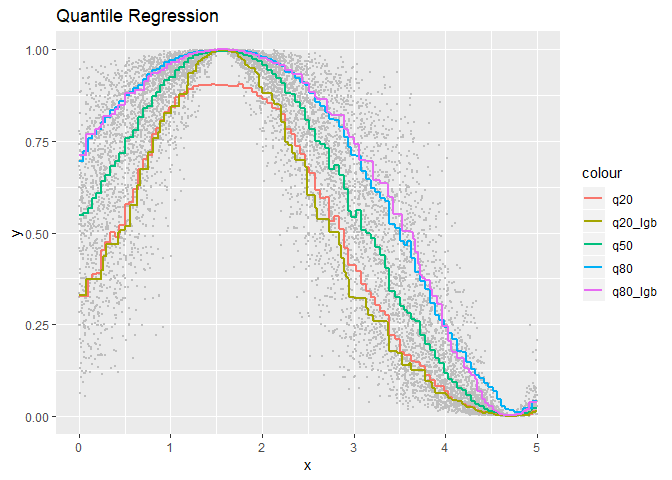
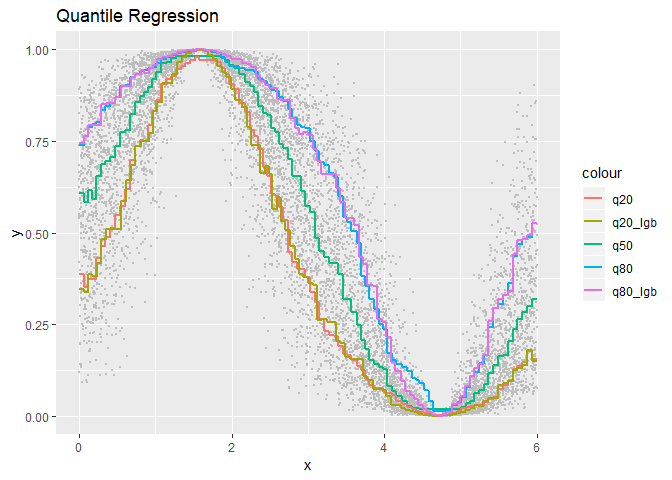
update quantile

diff --git a/README.md b/README.md
@@ -28,7 +28,9 @@ environment. Then, install EvoTree R package with:
 # Getting started
 
 ``` r
-x <- runif(10000, -10, 10)
+# set data
+set.seed(123)
+x <- runif(10000, -6, 6)
 y <- sin(x) * 0.5 + 0.5
 y <- log(y/(1-y)) + rnorm(length(y))
 y <- 1 / (1 + exp(-y))
@@ -59,7 +61,7 @@ table(pred_q80 < target_train) / length(target_train)
 
     ## 
     ##  FALSE   TRUE 
-    ## 0.7958 0.2042
+    ## 0.8035 0.1965
 
 ``` r
 # xgboost reference
@@ -73,7 +75,8 @@ pred_xgb <- predict(model, xgb_train)
 
 ``` r
 # set data
-x <- runif(10000, 0, 5)
+set.seed(123)
+x <- runif(10000, 0, 6)
 y <- sin(x) * 0.5 + 0.5
 y <- log(y/(1-y)) + rnorm(length(y))
 y <- 1 / (1 + exp(-y))
@@ -81,27 +84,27 @@ data_train <- matrix(x)
 target_train <- y
 
 # quantile regression - q50
-params <- list(loss = "quantile", alpha=0.5, nrounds = 200, eta = 0.05, nbins=100, lambda = 0.5, gamma = 0.0, max_depth = 5, min_weight = 1, rowsample = 0.5, colsample = 1)
+params <- list(loss = "quantile", alpha=0.5, nrounds = 200, eta = 0.05, nbins=100, lambda = 1.0, gamma = 0.0, max_depth = 4, min_weight = 1, rowsample = 0.5, colsample = 1)
 model <- evo_train(data_train = data_train, target_train = target_train, params = params)
 pred_q50 <- predict(model = model, data = data_train)
 
 # quantile regression - q20
-params <- list(loss = "quantile", alpha=0.2, nrounds = 200, eta = 0.05, nbins=100, lambda = 0.5, gamma = 0.0, max_depth = 5, min_weight = 1, rowsample = 0.5, colsample = 1)
+params <- list(loss = "quantile", alpha=0.2, nrounds = 200, eta = 0.05, nbins=100, lambda = 1.0, gamma = 0.0, max_depth = 4, min_weight = 1, rowsample = 0.5, colsample = 1)
 model <- evo_train(data_train = data_train, target_train = target_train, params = params)
 pred_q20 <- predict(model = model, data = data_train)
 
 # quantile regression - q80
-params <- list(loss = "quantile", alpha=0.8, nrounds = 200, eta = 0.05, nbins=100, lambda = 0.5, gamma = 0.0, max_depth = 5, min_weight = 1, rowsample = 0.5, colsample = 1)
+params <- list(loss = "quantile", alpha=0.8, nrounds = 200, eta = 0.05, nbins=100, lambda = 1.0, gamma = 0.0, max_depth = 4, min_weight = 1, rowsample = 0.5, colsample = 1)
 model <- evo_train(data_train = data_train, target_train = target_train, params = params)
 pred_q80 <- predict(model = model, data = data_train)
 
 # lightgbm
-params <- list(objective = "quantile", alpha=0.2, eta = 0.05, max_bin=200, l1=0, l2=0.5, min_split_gain = 0.5, max_depth = 4, min_weight = 1, rowsample = 0.5, colsample = 1)
+params <- list(objective = "quantile", alpha=0.2, eta = 0.05, max_bin=100, l1=0, l2=0.5, min_split_gain = 0.0, max_depth = 4, min_weight = 1, rowsample = 0.5, colsample = 1)
 dtrain <- lgb.Dataset(data = data_train, label = target_train, free_raw_data = FALSE)
 model <- lightgbm::lgb.train(params = params, data = dtrain, nrounds = 100)
 pred_q20_lgb <- predict(model, data_train)
 
-params <- list(objective = "quantile", alpha=0.8, eta = 0.05, max_bin=200, l1=0, l2=0.5, min_split_gain = 0.5, max_depth = 4, min_weight = 1, rowsample = 0.5, colsample = 1)
+params <- list(objective = "quantile", alpha=0.8, eta = 0.05, max_bin=100, l1=0, l2=0.5, min_split_gain = 0.0, max_depth = 4, min_weight = 1, rowsample = 0.5, colsample = 1)
 dtrain <- lgb.Dataset(data = data_train, label = target_train, free_raw_data = FALSE)
 model <- lightgbm::lgb.train(params = params, data = dtrain, nrounds = 100)
 pred_q80_lgb <- predict(model, data_train)
